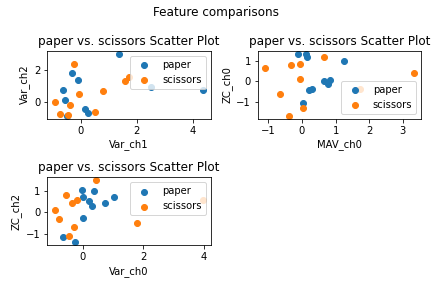
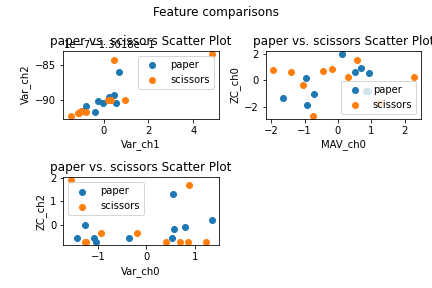
Weird plotting on Var vs Var otherwise good

diff --git a/Artur_Smiechowski_Lab5.py b/Artur_Smiechowski_Lab5.py
@@ -4,7 +4,8 @@
 # %% Imports
 import numpy as np
 import matplotlib.pyplot as plt
-from sklearn import preprocessing as skl
+import sklearn as skl
+from sklearn import svm as svm # Otherwise get missing attribute error? Despite importing the entire module above?
 # To import my own module requires this mess
 import sys
 #sys.path.insert(1, r'C:\Users\Artur Smiechowski\Documents\BME227_Code\Lab_5_BME_227')
@@ -73,7 +74,7 @@ def extract_features(epoched_data):
     features = np.concatenate((epoch_var,epoch_mav,epoch_zc),axis=1)
     
     # Normalize the feature array
-    features = skl.scale(features)
+    features = skl.preprocessing.scale(features)
     #--- Cannot get mean and std exactly 0 and 1. Tested on smaller arrays with same syntax and was succesful
     #--- Output mean and std where X*10^-17 and 0.99999... respectively, assuming floating point error or issue with big array
     
@@ -108,7 +109,7 @@ def crop_mi_inputs(features, truth_labels, included_truth_labels): # --- MAY BE 
     return kept_labels, kept_features # Return the cropped arrays
 
 # %% Part 2 Method Calls
-'''
+
 emg_data, emg_time = load_data("Smiechowski") # Load in data
 epoched_data = epoch_data(emg_data, 500, 1) # Epoch the data
 features, feature_shorthands = extract_features(epoched_data) # Extract the features and the shorthands // seriously why the shorthands?
@@ -120,6 +121,7 @@ epoched_data = epoch_data(emg_data, 500, 1) # Epoch the data
 features, feature_shorthands = extract_features(epoched_data) # Extract the features and the shorthands // seriously why the shorthands?
 instructed_action = make_truth_data(['rest','rock','rest','paper','rest','scissors']*10, 1) # Create the truth labels
 truth_labels_ps, features_ps = crop_mi_inputs(features, instructed_action, ['paper','scissors']) # Crop out only the paper and scissors labels and features
+'''
 
 # %% Part 3
 
@@ -148,7 +150,7 @@ plt.clf() # Clear the figure just in case
 plt.suptitle('Feature comparisons') # Add a title over the whole figure
 # Subplot Variance on channel 1 vs channel 2
 plt.subplot(2,2,1)
-scatter_plot(features_ps[:,1:3],feature_shorthands[1:3],truth_labels_ps)
+scatter_plot(np.transpose([features_ps[:,1],features_ps[:,2]]),[feature_shorthands[1],feature_shorthands[2]],truth_labels_ps)
 # Subplot MAC vs ZC on channel 0
 plt.subplot(2,2,2)
 scatter_plot(np.transpose([features_ps[:,3],features_ps[:,6]]),[feature_shorthands[3],feature_shorthands[6]],truth_labels_ps)
@@ -163,4 +165,80 @@ plt.savefig('Paper_vs._Scissors_Scatter_Plot.png')
 
 # %% Part 4
 
+def fit_classifier(features, labels):
+    '''fit_classifier
+    '''
+    binary_labels = [] # Create an empty list to be the binarized lables // Not reassigning labels values to avoid recall issues
+    for label in labels: # Iterate through each label in labels
+        if label == 'scissors': # If scissors append a 1 to binary_labels, else must be paper so append -1
+            binary_labels.append(1)
+        else:
+            binary_labels.append(-1)
+            
+    LinSVC = svm.LinearSVC(C=1e6) # Create the linear SVC object
+    
+    return LinSVC.fit(features, binary_labels) # Return the trained classifier object // Note that training on 20 samples is not enough to converge
+
+Paper_Scissors_LinSVC = fit_classifier(features_ps, truth_labels_ps) # Call the method to create a Paper vs Scissors SVM
+
+w = np.ravel(Paper_Scissors_LinSVC.coef_) # Extract feature weights // Flattened since is already 1 dimensional
+b = Paper_Scissors_LinSVC.intercept_[0] # Extract the bias // Pulled out of array since it's a single value
+
+# Print the equation for z'
+to_print = '' # The string to print, will be added to
+for feature in range(len(feature_shorthands)): # Using a loop for this so it's actually readable
+    rounded = round(w[feature], 3) # Round to 3 places
+    to_print += f'{rounded} * {feature_shorthands[feature]} + ' # Add to to_print
+
+print("z' = " + to_print + f" {round(b, 3)}") # Print the full equation
+   
+# %% Part 5
+
+def predictor_histogram(trained_classifier, features, truth_labels):
+    '''predictor_histogram
+    '''
+    # Isolate the z' scores of the actions
+    paper_scores = trained_classifier.decision_function(features)[truth_labels == 'paper'] # Isolate the z' scores of the true paper actions
+    scissors_scores = trained_classifier.decision_function(features)[truth_labels == 'scissors'] # Isolate the z' scores of the true scissors actions
+    
+    # Clear the figure // If you don't it just overlays the previous ones
+    plt.clf()
+    
+    # Add axis labels and title for plot
+    plt.title('Predictor Histogram')
+    plt.xlabel('Predictor')
+    plt.ylabel('Predicted Count')
+    
+    # Plot the histogram and add a legend
+    plt.hist(paper_scores,bins=10, alpha=0.5, label="Predicted Paper")
+    plt.hist(scissors_scores,bins=10, alpha=0.5, label="Predicted Scissors")
+    plt.axvline(x=0, label="Threshhold") # Creates a vertical line at the threshhold
+    plt.legend() # Enables data legend
+    
+    # Save the figure
+    plt.savefig('Predictor_Histogram.png')
+ 
+def evaluate_classifier(trained_classifier, features, truth_labels):
+    '''evaluate_classifier
+    '''
+    # Reusing binarization code since can't compare strings and floats // Feels like there's a better way since I'm repeating here but other than saving binary_labels as global var am unsure
+    binary_labels = [] # Create an empty list to be the binarized lables // Not reassigning labels values to avoid recall issues
+    for label in truth_labels: # Iterate through each label in labels
+        if label == 'scissors': # If scissors append a 1 to binary_labels, else must be paper so append -1
+            binary_labels.append(1)
+        else:
+            binary_labels.append(-1)
+
+    print("Accuracy " + str(trained_classifier.score(features, binary_labels))) # Print the accuracy of the SVC
+    
+    
+    plt.clf() # Clear figure just in case
+    # Create the confusion matrix
+    skl.metrics.plot_confusion_matrix(trained_classifier, features_ps, binary_labels)
+    plt.savefig('Confusion_Matrix.png') # Save the figure
+
+predictor_histogram(Paper_Scissors_LinSVC, features_ps, truth_labels_ps)
+evaluate_classifier(Paper_Scissors_LinSVC, features_ps, truth_labels_ps)
+
+# %% Part 6
 
